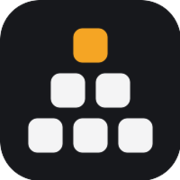
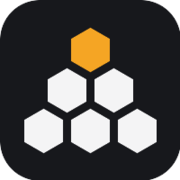
feat: icona a nido d'ape
Sei celle esagonali a piramide (la A di Alveare), quella in cima in ambra:
favicon, apple-touch-icon, logo del pannello e del README.

Changed region(s): [[0.1111, 0.1389, 0.6944, 0.8611], [0.5556, 0.4167, 0.8889, 0.8611], [0.25, 0.4167, 0.3056, 0.5833]]

diff --git a/ui/src/lib/components/app/logo.svelte b/ui/src/lib/components/app/logo.svelte
@@ -1,17 +1,13 @@
 <script lang="ts">
-	// Il marchio di Alveare: sei celle a piramide, quella in cima in ambra. Anche favicon.
+	// Il marchio di Alveare: sei celle esagonali a piramide (una "A" a nido d'ape), quella in cima in ambra. Anche favicon.
 	import { cn } from '$lib/utils';
 	let { class: className = '' }: { class?: string } = $props();
 </script>
 
 <svg viewBox="0 0 32 32" class={cn('size-7 shrink-0', className)} aria-hidden="true">
 	<rect width="32" height="32" rx="7" class="fill-foreground" />
-	<rect x="13" y="5" width="6" height="6" rx="1.6" class="fill-brand" />
-	<g class="fill-background">
-		<rect x="9" y="13" width="6" height="6" rx="1.6" />
-		<rect x="17" y="13" width="6" height="6" rx="1.6" />
-		<rect x="5" y="21" width="6" height="6" rx="1.6" />
-		<rect x="13" y="21" width="6" height="6" rx="1.6" />
-		<rect x="21" y="21" width="6" height="6" rx="1.6" />
+	<g stroke-width="1.4" stroke-linejoin="round">
+		<path d="M16.00 4.90 L19.38 6.85 L19.38 10.75 L16.00 12.70 L12.62 10.75 L12.62 6.85Z" class="fill-brand stroke-brand" />
+		<path d="M11.84 12.10 L15.22 14.05 L15.22 17.95 L11.84 19.90 L8.47 17.95 L8.47 14.05Z M20.16 12.10 L23.53 14.05 L23.53 17.95 L20.16 19.90 L16.78 17.95 L16.78 14.05Z M7.69 19.30 L11.06 21.25 L11.06 25.15 L7.69 27.10 L4.31 25.15 L4.31 21.25Z M16.00 19.30 L19.38 21.25 L19.38 25.15 L16.00 27.10 L12.62 25.15 L12.62 21.25Z M24.31 19.30 L27.69 21.25 L27.69 25.15 L24.31 27.10 L20.94 25.15 L20.94 21.25Z" class="fill-background stroke-background" />
 	</g>
 </svg>

diff --git a/DESIGN.md b/DESIGN.md
@@ -219,7 +219,7 @@ Il sistema è piatto: la profondità si legge da filetti di 1px e da scarti tona
 
 ## Shapes
 
-Raggio piccolo e coerente, derivato da una sola variabile (0.5rem). I contenitori di pagina (striscia, liste, tabella, schede bordate) usano 8px; bottoni, campi, voci di menu e iniziali utente 6.4px; card e dialoghi 11.2px; i badge sono pillole; il pallino di stato è un cerchio di 8px (10px accanto al titolo del sito). Il marchio è un quadrato arrotondato (raggio 7 su 32) con sei celle quadrate arrotondate disposte a piramide 1-2-3, la cella in cima in ambra.
+Raggio piccolo e coerente, derivato da una sola variabile (0.5rem). I contenitori di pagina (striscia, liste, tabella, schede bordate) usano 8px; bottoni, campi, voci di menu e iniziali utente 6.4px; card e dialoghi 11.2px; i badge sono pillole; il pallino di stato è un cerchio di 8px (10px accanto al titolo del sito). Il marchio è un quadrato arrotondato (raggio 7 su 32) con sei celle esagonali (punta in alto, angoli arrotondati) in impaccamento a nido d'ape, disposte a piramide 1-2-3 come una "A", la cella in cima in ambra.
 
 ## Components
 
@@ -272,7 +272,7 @@ Lista bordata con divisori, una riga per elemento: pallino o icona a sinistra, n
 - **Do** tenere l'ambra di marca dentro il marchio.
 
 ### Don't:
-- **Don't** usare il tema api o miele come costume: niente favi, gocce di miele o api decorative nell'interfaccia; il marchio a celle è l'unico riferimento.
+- **Don't** usare il tema api o miele come costume: niente favi, gocce di miele o api decorative nell'interfaccia; il marchio esagonale è l'unico riferimento, e gli esagoni restano nel marchio.
 - **Don't** usare gradienti o metriche finte da dashboard SaaS generica.
 - **Don't** usare warning, success o info come colore del testo su fondo chiaro: sotto 4.5:1. Per un'avvertenza in testo usa `text-warning-text`.
 - **Don't** usare un colore di stato per decorare o per distinguere categorie che non sono stati.
